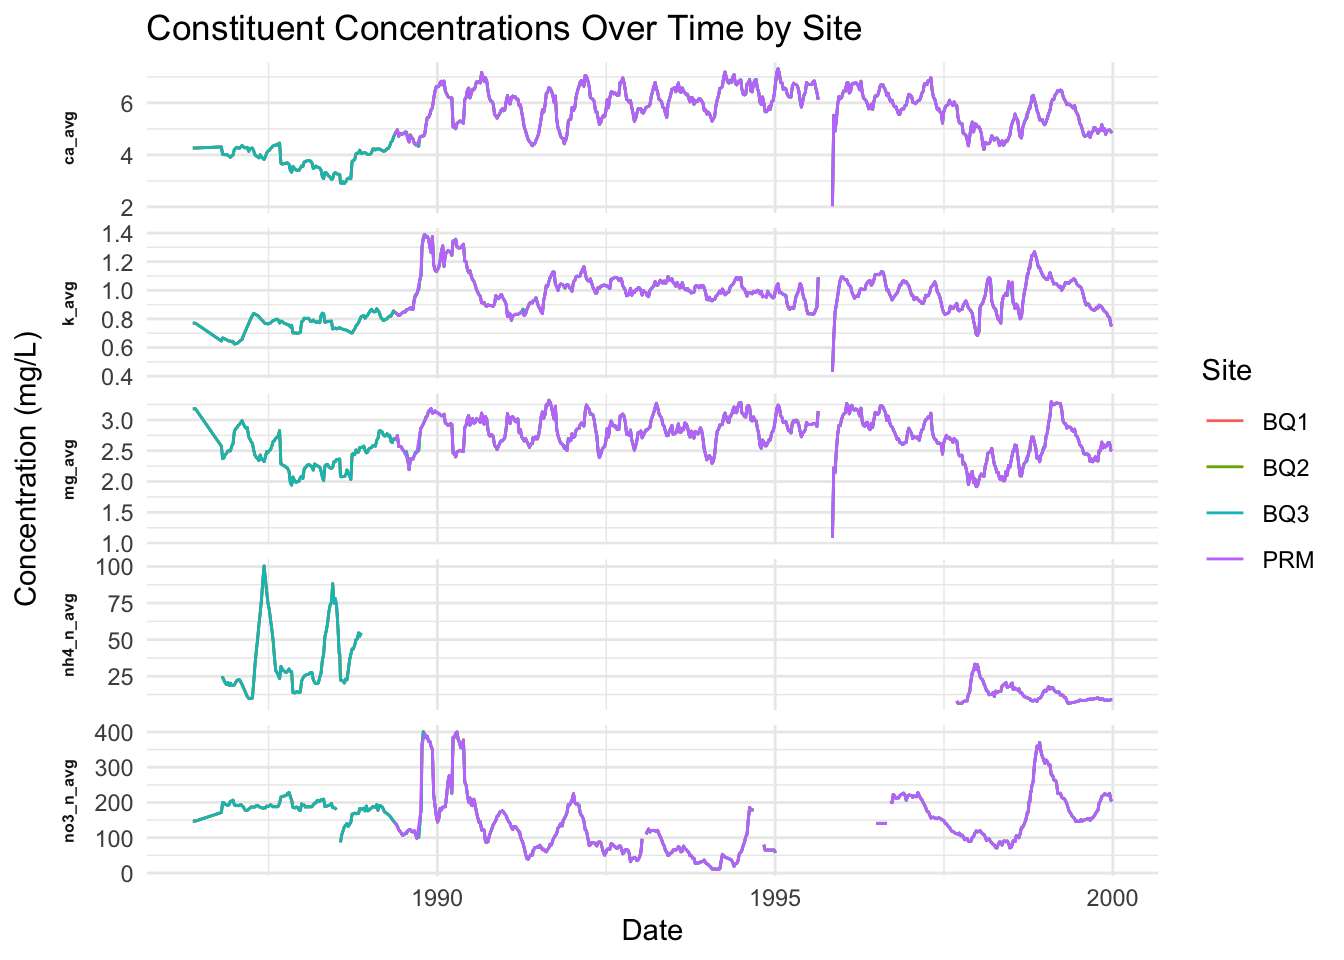
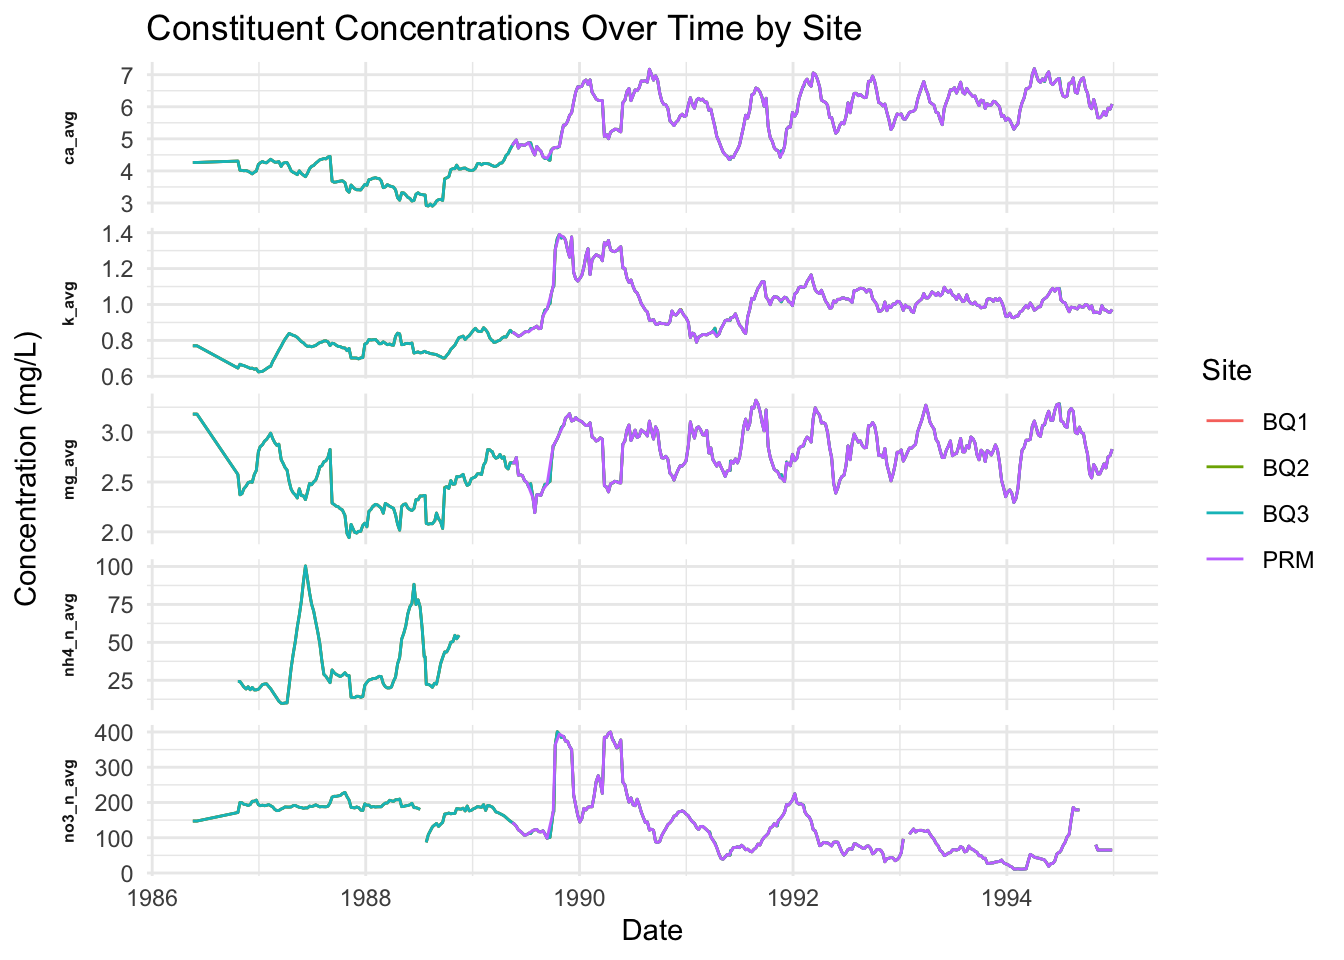
further README edits

diff --git a/README.html b/README.html
@@ -372,37 +372,38 @@ the analysis performed to create the figure picture above. In addition
 to scripts, this repo contains all of the raw and cleaned data that was
 utilized in Schaefer et. al.’s research, and obtained from the
 Environmental Data Initiatives website at (<a href="https://portal.edirepository.org/nis/mapbrowse?packageid=knb-lter-luq.20.4923064" class="uri">https://portal.edirepository.org/nis/mapbrowse?packageid=knb-lter-luq.20.4923064</a>).</p>
-<div id="data" class="section level4">
-<h4>data</h4>
+<div id="data" class="section level5">
+<h5><strong>data</strong></h5>
 <p>Contains the raw data from Schaeffer et. al. 2000 for ion
 (constituent) levels in four watersheds in Puerto Rico</p>
 </div>
-<div id="envrironment_init" class="section level4">
-<h4>1_envrironment_init</h4>
+<div id="environment_init" class="section level5">
+<h5><strong>1_environment_init</strong></h5>
 <p>Contains all necessary packages and functions for analysis.</p>
 </div>
-<div id="data_cleaning" class="section level4">
-<h4>2_data_cleaning</h4>
+<div id="data_cleaning" class="section level5">
+<h5><strong>2_data_cleaning</strong></h5>
 <p>Contains the scripts that import the necessary data, and the script
-that cleans the data before analysis</p>
+that cleans the data before analysis.</p>
 </div>
-<div id="analysis" class="section level4">
-<h4>3_analysis</h4>
-<p>Contains the primary analysis of the cleaned data, primarily applying
-a rolling average function to the constituent values, and further
-cleaning/transforming the data into a final data frame.</p>
+<div id="analysis" class="section level5">
+<h5><strong>3_analysis</strong></h5>
+<p>Contains the primary analysis of the cleaned data. The script in this
+folder applies the roll_mean function for each constituent value, and
+susequently cleans/transforms the data into a final data frame called
+data_comb_avgs.</p>
 </div>
-<div id="processed_data" class="section level4">
-<h4>4_processed_data</h4>
-<p>Contains the final data frame used to plot Figure 3, saved as
-rivers_data_long.csv</p>
+<div id="processed_data" class="section level5">
+<h5><strong>4_processed_data</strong></h5>
+<p>Contains an export of the data frame used to plot Figure 3, saved as
+data_comb_avgs.csv</p>
 </div>
-<div id="plot" class="section level4">
-<h4>5_plot</h4>
+<div id="plot" class="section level5">
+<h5><strong>5_plot</strong></h5>
 <p>Contains the script that produces Figure 3</p>
 </div>
-<div id="docs" class="section level4">
-<h4>docs</h4>
+<div id="docs" class="section level5">
+<h5><strong>docs</strong></h5>
 <p>Contains the quarto document that can be rendered to view the steps
 taken to produce Figure 3</p>
 </div>
@@ -420,19 +421,34 @@ project</p>
 <h3><strong>4) Analysis</strong></h3>
 <p>This analysis can be broke up into 5 parts, listed below:</p>
 <div id="environment-initialization" class="section level4">
-<h4><strong>1) Environment Initialization</strong></h4>
+<h4><strong>1 - Environment Initialization</strong></h4>
+<p>This step installs the following packages and functions necessary to
+run the analysis:</p>
+<ul>
+<li><p>(tidyverse) - tools for data manipulation, visualization, and
+analysis</p></li>
+<li><p>(here) - simplifies file referencing</p></li>
+<li><p>(janitor) - provides functions for data cleaning</p></li>
+<li><p>(lubridate) - provides functions for parsing, extracting, and
+manipulating date-time data</p></li>
+<li><p>roll_avg - Function; calculates the rolling average of
+concentration values within a specified time window (in weeks) centered
+around a given focal date. It identifies dates within the window,
+extracts the corresponding concentration values, and returns their mean,
+ignoring any missing (NA) values.</p></li>
+</ul>
 </div>
 <div id="data-import" class="section level4">
-<h4><strong>2) Data Import</strong></h4>
+<h4><strong>2 - Data Import</strong></h4>
 </div>
 <div id="data-cleaning" class="section level4">
-<h4><strong>3) Data Cleaning</strong></h4>
+<h4><strong>3 - Data Cleaning</strong></h4>
 </div>
 <div id="analysis-2" class="section level4">
-<h4><strong>4) Analysis</strong></h4>
+<h4><strong>4 - Analysis</strong></h4>
 </div>
 <div id="plot-generation" class="section level4">
-<h4><strong>5) Plot Generation</strong></h4>
+<h4><strong>5 - Plot Generation</strong></h4>
 <div id="section-1" class="section level5">
 <h5></h5>
 </div>

diff --git a/docs/Data_exploration.html b/docs/Data_exploration.html
@@ -128,7 +128,7 @@ pre > code.sourceCode > span > a:first-child::before { text-decoration: underlin
 </div>
 <hr>
 <p><strong>Plot</strong></p>
-<p>This code chunk produces the final figure, which shows the concentrations of calcium, ammonium, nitrate, magnesium and potassium in four watersheds over the span of 1989-1999.</p>
+<p>This code chunk produces the final figure, which shows the concentrations of calcium, ammonium, nitrate, magnesium and potassium in four watersheds over the span of 1989-1995.</p>
 <div class="cell">
 <div class="sourceCode cell-code" id="cb5"><pre class="sourceCode r code-with-copy"><code class="sourceCode r"><span id="cb5-1"><a href="#cb5-1" aria-hidden="true" tabindex="-1"></a><span class="fu">source</span>(<span class="st">"../5_plot/plot.R"</span>)</span>
 <span id="cb5-2"><a href="#cb5-2" aria-hidden="true" tabindex="-1"></a>figure_2</span></code><button title="Copy to Clipboard" class="code-copy-button"><i class="bi"></i></button></pre></div>

diff --git a/README.md b/README.md
@@ -10,31 +10,25 @@ This project is intended to serve as practice for reproducing analysis and figur
 
 This repo contains scripts which house code that seeks to recreate the analysis performed to create the figure picture above. In addition to scripts, this repo contains all of the raw and cleaned data that was utilized in Schaefer et. al.'s research, and obtained from the Environmental Data Initiatives website at (<https://portal.edirepository.org/nis/mapbrowse?packageid=knb-lter-luq.20.4923064>).
 
-#### data
-
+##### **data**
 Contains the raw data from Schaeffer et. al. 2000 for ion (constituent) levels in four watersheds in Puerto Rico
 
-#### 1_environment_init
-
+##### **1_environment_init**
 Contains all necessary packages and functions for analysis.
 
-#### 2_data_cleaning
+##### **2_data_cleaning**
+Contains the scripts that import the necessary data, and the script that cleans the data before analysis.
 
-Contains the scripts that import the necessary data, and the script that cleans the data before analysis
+##### **3_analysis**
+Contains the primary analysis of the cleaned data. The script in this folder applies the roll_mean function for each constituent value, and susequently cleans/transforms the data into a final data frame called data_comb_avgs.
 
-#### 3_analysis
+##### **4_processed_data**
+Contains an export of the data frame used to plot Figure 3, saved as data_comb_avgs.csv
 
-Contains the primary analysis of the cleaned data, primarily applying a rolling average function to the constituent values, and further cleaning/transforming the data into a final data frame.
-
-#### 4_processed_data
-
-Contains the final data frame used to plot Figure 3, saved as rivers_data_long.csv
-
-#### 5_plot
-
+##### **5_plot**
 Contains the script that produces Figure 3
 
-#### docs
+##### **docs**
 
 Contains the quarto document that can be rendered to view the steps taken to produce Figure 3
 
@@ -50,15 +44,27 @@ The flowchart below provides a visual for the workflow of this project
 
 This analysis can be broke up into 5 parts, listed below:
 
-#### **1) Environment Initialization**
+#### **1 - Environment Initialization**
 
-#### **2) Data Import**
+This step installs the following packages and functions necessary to run the analysis:
 
-#### **3) Data Cleaning**
+-   (tidyverse) - tools for data manipulation, visualization, and analysis
 
-#### **4) Analysis**
+-   (here) - simplifies file referencing
 
-#### **5) Plot Generation**
+-   (janitor) - provides functions for data cleaning
+
+-   (lubridate) - provides functions for parsing, extracting, and manipulating date-time data
+
+-   roll_avg - Function; calculates the rolling average of concentration values within a specified time window (in weeks) centered around a given focal date. It identifies dates within the window, extracts the corresponding concentration values, and returns their mean, ignoring any missing (NA) values.
+
+#### **2 - Data Import**
+
+#### **3 - Data Cleaning**
+
+#### **4 - Analysis**
+
+#### **5 - Plot Generation**
 
 ##### 
 
